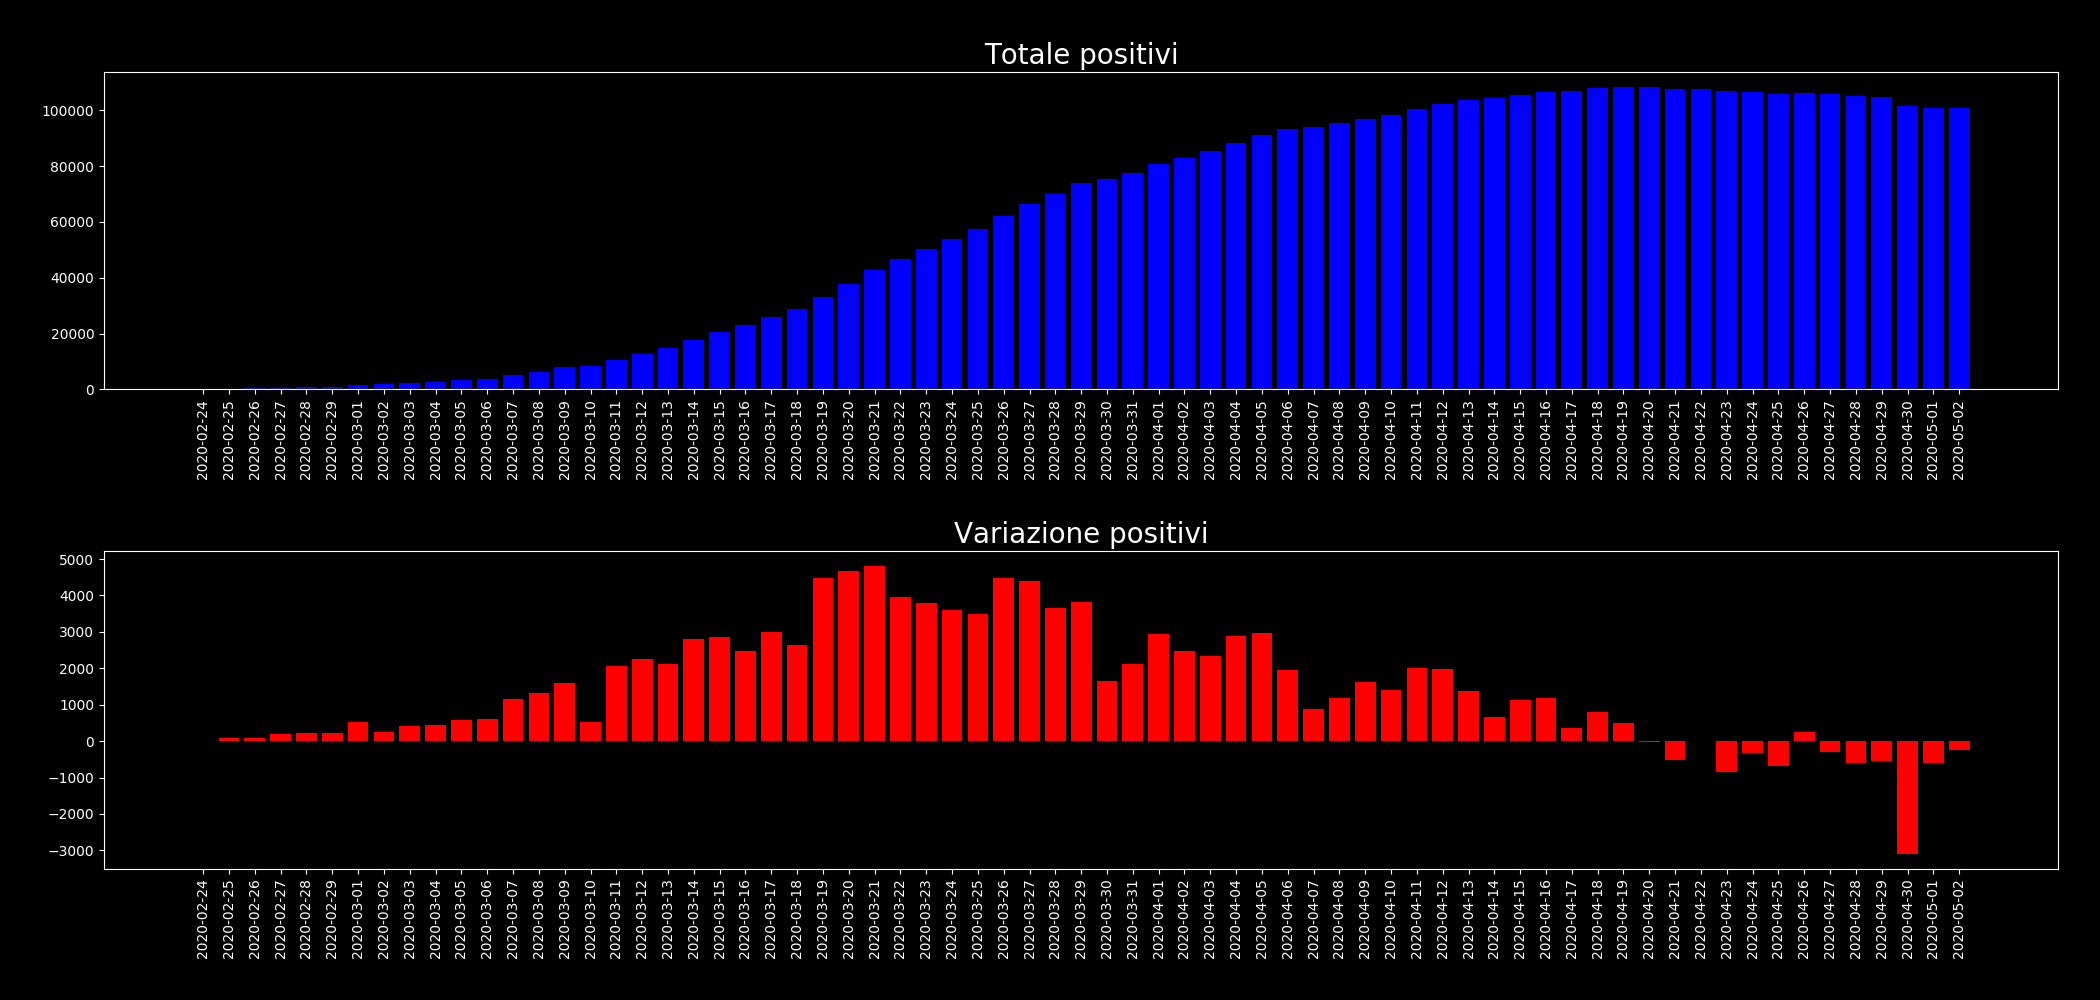
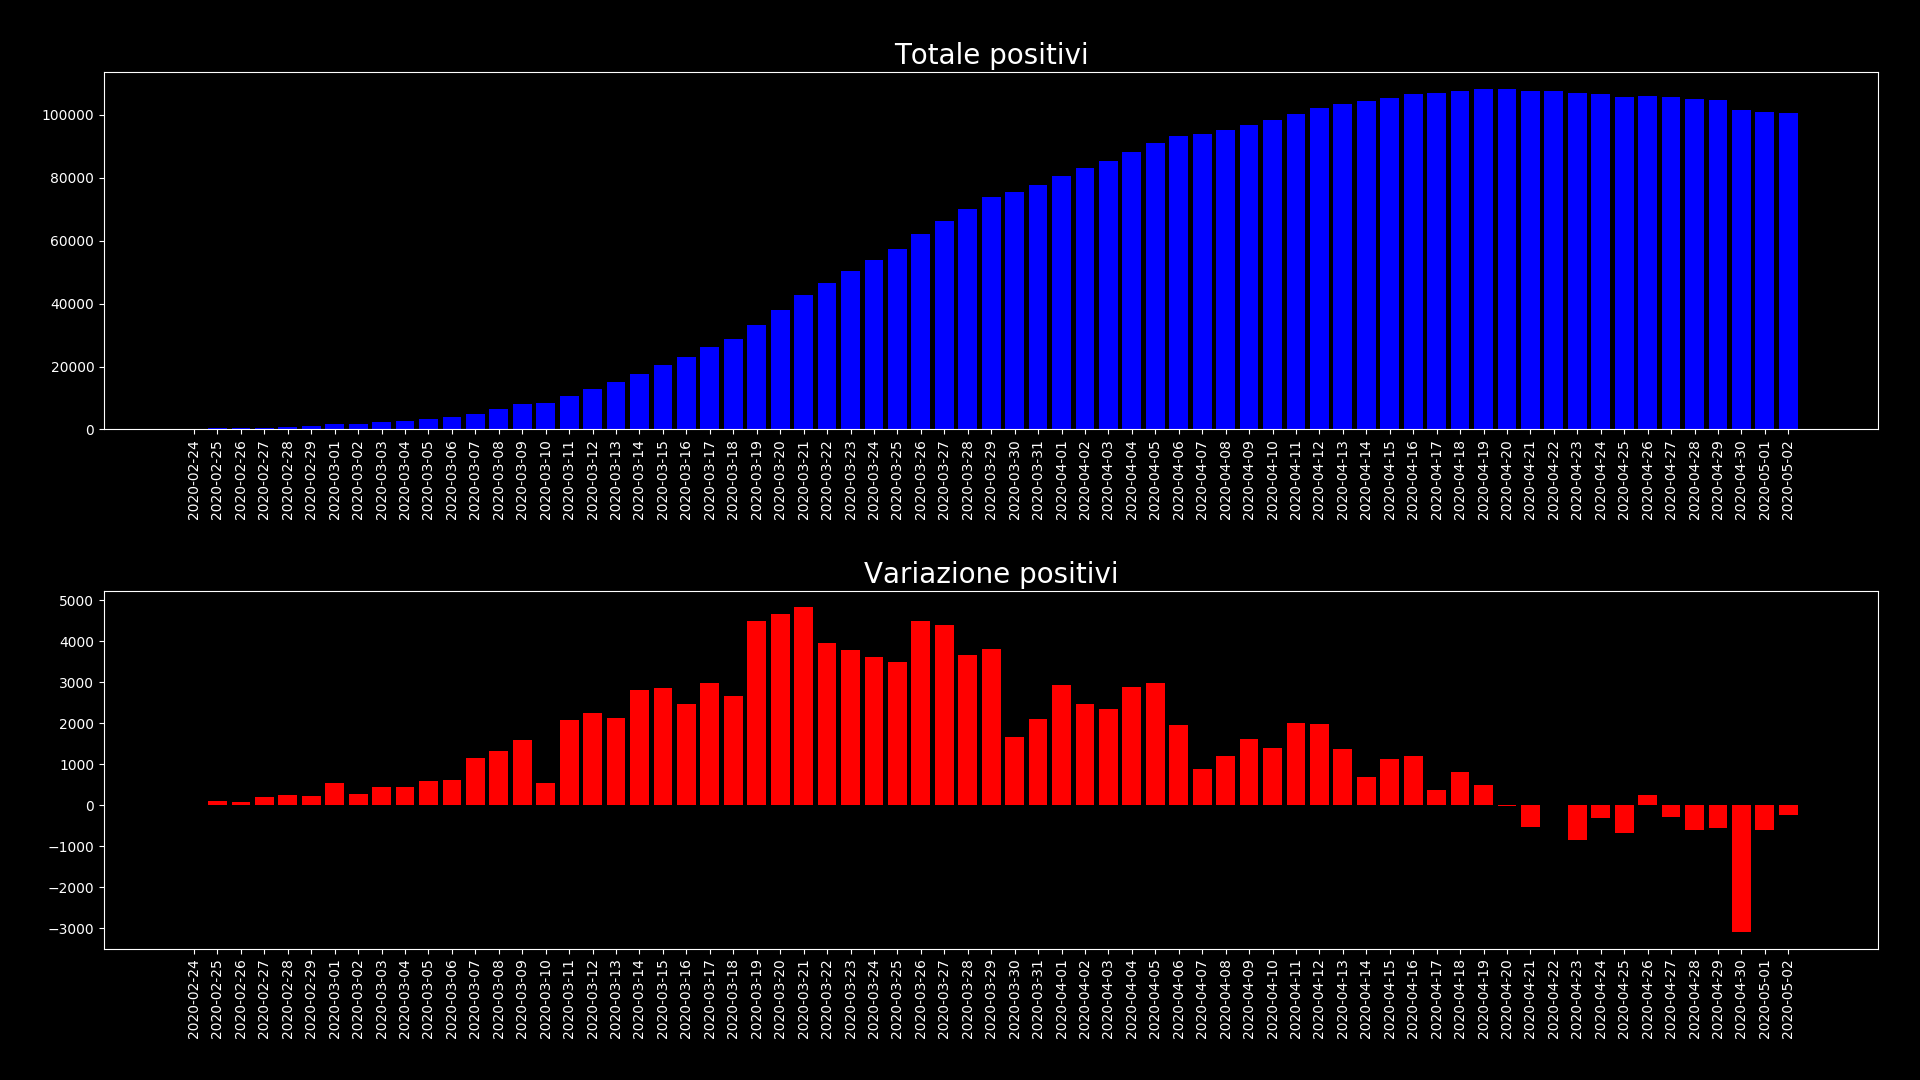
Added new graph

diff --git a/covid19graphs/covid19.html b/covid19graphs/covid19.html
@@ -18,7 +18,7 @@
 <body class="darkbody">
     <div style="margin-top:4%; text-align:center;"><img class="normal" src="assets/deathconhealperdayline.png"></div>
     <div style="margin-top:4%; text-align:center"><img class="normal" src="assets/tampscont.png"></div>
-    <div style="margin-top:4%; text-align:center"><img style="width: 100%;" class="normal" src="assets/totposandvariation.png"></div>
+    <div style="margin-top:4%; text-align:center"><img class="normal" src="assets/totposandvariation.png"></div>
     <div style="text-align: center;margin-top: 4%;">
         <div style="text-align:center;display:inline;"><img class="normal" border="1px" src="assets/posnegcumpie.png"></div>
         <div style="text-align:center;display:inline;"><img class="normal" border="1px" src="assets/posnegtodaypie.png"></div>

diff --git a/covid19graphs/src/totposandnewpos.py b/covid19graphs/src/totposandnewpos.py
@@ -9,34 +9,43 @@ def removehour(element):
 
 
 def main():
-    dataframe = pd.read_csv(
-        "dpc-covid19-ita-andamento-nazionale.csv", sep=",", index_col=0)
+    dataframe = pd.read_csv("dpc-covid19-ita-andamento-nazionale.csv", sep=",", index_col=0)
+
     # Rimuovo gli orari, tengo la data
     fixeddate = []
     for h in dataframe.index:
         h = h.split('T')[0]
         fixeddate.append(h)
 
+    #Sostituisco l'indice con i nuovi dati
     dataframe.index = fixeddate
 
+    #tema nero
     plt.style.use('dark_background')
 
+    #genero la figura e l'array a due posizioni per i due plot
     figure, axes = plt.subplots(2, 1)
+    #x è sempre i giorni
     x = dataframe.index
     y = dataframe['totale_positivi']
     axes[0].set_title('Totale positivi', fontsize=20)
+    #axes[0] conterrà il primo grafico a barre
     axes[0].bar(x, y, color="blue")
 
     y = dataframe['variazione_totale_positivi']
     axes[1].set_title('Variazione positivi', fontsize=20)
+    #axes[0] conterrà il secondo grafico a barre
     axes[1].bar(x, y, color="red")
+
+    #Ruoto i label sull'asse delle x in verticale
     for tick in axes[0].get_xticklabels():
         tick.set_rotation(90)
 
     for tick in axes[1].get_xticklabels():
         tick.set_rotation(90)
 
-    figure.set_size_inches(21, 10)
+    #Modifico le dimensioni della figura e salvo la figura
+    figure.set_size_inches(19.2, 10.8)
     figure.tight_layout(pad=3.0)
     figure.savefig("../assets/totposandvariation.png", dpi=100)
 
